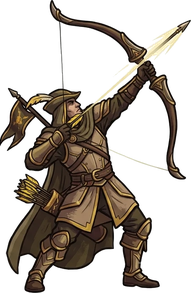
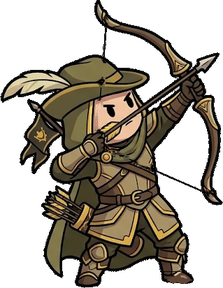
궁병 장군(보스 3) 본체를 메인 화풍으로 교체, 단색 배경 제거 (베타 1.289)
Claude-Session: https://claude.ai/code/session_01EFTEodMUbbTSUTixRFZg7z

diff --git a/docs/asset-prompts.md b/docs/asset-prompts.md
@@ -20,7 +20,7 @@
 | 기병 장군 돌진 충돌 임팩트 | 섬광 2장(`boss1_impact_0`, `0b`)과 흰 배경 재요청본 연기 3컷(`boss1_impact_1~3`) 모두 받음, 보관 (`assets/fx/`). 3번 연기는 반투명이라 옅다 |
 | 창병 장군 본체 3포즈 | **메인 화풍으로 재제작해 적용됨(베타 1.288)**: `assets/units/boss2_idle.png`(188x329), `boss2_guard.png`(252x209), `boss2_thrust.png`(258x206). 예전 그림(여분 `boss2_guard_b` 포함)은 `_old`로 보관. 받은 시안에서 손본 것: 체크무늬 배경 제거, 발 밑 지면선 삭제, **찌르기 포즈의 창날이 캔버스 끝에서 잘려 있어 방어 포즈의 같은 창날을 이어 붙여 복원**, 창날 안쪽 하이라이트가 배경으로 지워진 곳 채움. 다음에 요청할 때는 "캔버스 오른쪽에 창끝 여백을 둘 것, 지면선을 그리지 말 것"을 덧붙인다 |
 | 창병 장군 이펙트 (장창 찌르기 선 3컷, 창 방어 쓸기 3컷, 던진 창, 박힌 창) | 받음, 보관 (`assets/fx/boss2_thrust_0~2`, `boss2_sweep_0~2`, `boss2_spear_fly`, `boss2_spear_stuck`). 시안의 테두리 선은 잘라 냈다. 연한 초록 이펙트는 반투명으로 처리해 옅게 보인다 |
-| 궁병 장군 본체 3포즈·이펙트 | 받음, 보관 (`assets/units/boss3_idle`, `boss3_aim`, `boss3_sky`, `assets/fx/boss3_ice_0~4`, `boss3_snipe`, `boss3_snipe_hit`, `boss3_rain_0·1·stuck·fade`, `boss3_dust_0~3`, `boss3_frost_0~2`). 얼음 둔화 표시는 얼음 고리 그림 대신 **파란 틴트(독과 같은 방식)** 로 하기로 해서 `boss3_frost_*`는 쓰지 않고 보관만 한다 |
+| 궁병 장군 본체 3포즈 | **메인 화풍으로 재제작해 적용됨(베타 1.289)**: `assets/units/boss3_idle.png`(225x271), `boss3_aim.png`(231x271), `boss3_sky.png`(223x288). 예전 그림은 `_old`로 보관. 제미나이 시안에서 손본 것: 단색 회색 배경 제거(`tools/remove_flat_bg.py`), 오른쪽 아래 제미나이 별 로고와 그에 가려진 신발창 복원, 활시위가 모자·얼굴·몸을 가로지르던 선을 지워 "시위가 머리 뒤로 지나가는" 모습으로 정리. 이펙트(`assets/fx/boss3_*`: 얼음 화살·저격 볼트·화살비 등)는 아직 예전 그림이라 본체와 화풍이 다르다 |
 | 검방병 장군 본체 3포즈·이펙트 | 받음, 보관 (`assets/units/boss4_idle`, `boss4_reflect`, `boss4_charge`, `assets/fx/boss4_shield_0~2`, `boss4_reflect_0~3`, `boss4_inv_0~3`, `boss4_bash_1~3`, 대체 시안 `boss4_bash_1b~3b`). **방패 돌진 섬광 `boss4_bash_0`은 못 씀**: 흰 섬광을 흰 배경에 그려서 지우면 중심이 사라진다. 흰 섬광·빛 이펙트는 **검은 배경**으로 다시 요청해야 한다(돌진 임팩트 섬광은 `boss1_impact_0`으로 대신할 수 있다) |
 | 둔기병 장군 본체 3포즈·이펙트 | 받음, 보관 (`assets/units/boss5_idle`, `boss5_jump`, `boss5_smash`, `assets/fx/boss5_mace_fly`, `boss5_mace_stuck`, `boss5_shard_0~2`, `boss5_quake_0~4`, `boss5_spin_0~3`, `boss5_swing_0~2`). 시안의 칸 선과 고리 안 흰 칸은 지웠다 |
 | 둔기병 장군 철퇴 난타 이펙트 | 받음, 적용됨 (`assets/fx/boss5_flurry_arc_0~2` 휘두르는 호, `boss5_flurry_hit_0~2` 타격 임팩트 3컷). 보스 휘두르기 포즈 2장 받아 적용(`assets/units/boss5_swing_a`(젖힌 자세)·`boss5_swing_b`(휘두르는 자세), 발 위치를 맞춘 같은 크기 캔버스) |
@@ -1264,3 +1264,5 @@ Character: an archer general boss, the stage 3 boss of a dark fantasy mercenary 
 
 Avoid: realistic proportions, tall lean adult body, long legs, small head, narrow long face, huge wide hat, photo, 3d render, gradients, glossy highlights, painterly texture, thin or white outline, ground line, checkerboard pattern, detailed eyes, iris, eyelashes, realistic face, face shading, nose shadow, long pointed elf ears, bowstring across the face or hat, cropped or overlapping items, logo, watermark, any text other than the three captions.
 ```
+
+**13-3 진행**: 받음, 적용됨(베타 1.289). 두 번 다시 뽑아 얼굴(눈 점·단순한 얼굴)과 비율(머리가 큼)을 맞췄다. **제미나이가 반복해서 남기는 문제**: ① 활시위가 얼굴을 가로지름, ② 오른쪽 아래에 별 모양 로고. 프롬프트에 금지를 적어도 남으므로 받은 뒤 도구로 지운다. 다음은 궁병 장군 이펙트를 메인 화풍에 맞춰 다시 받는 것이다.
